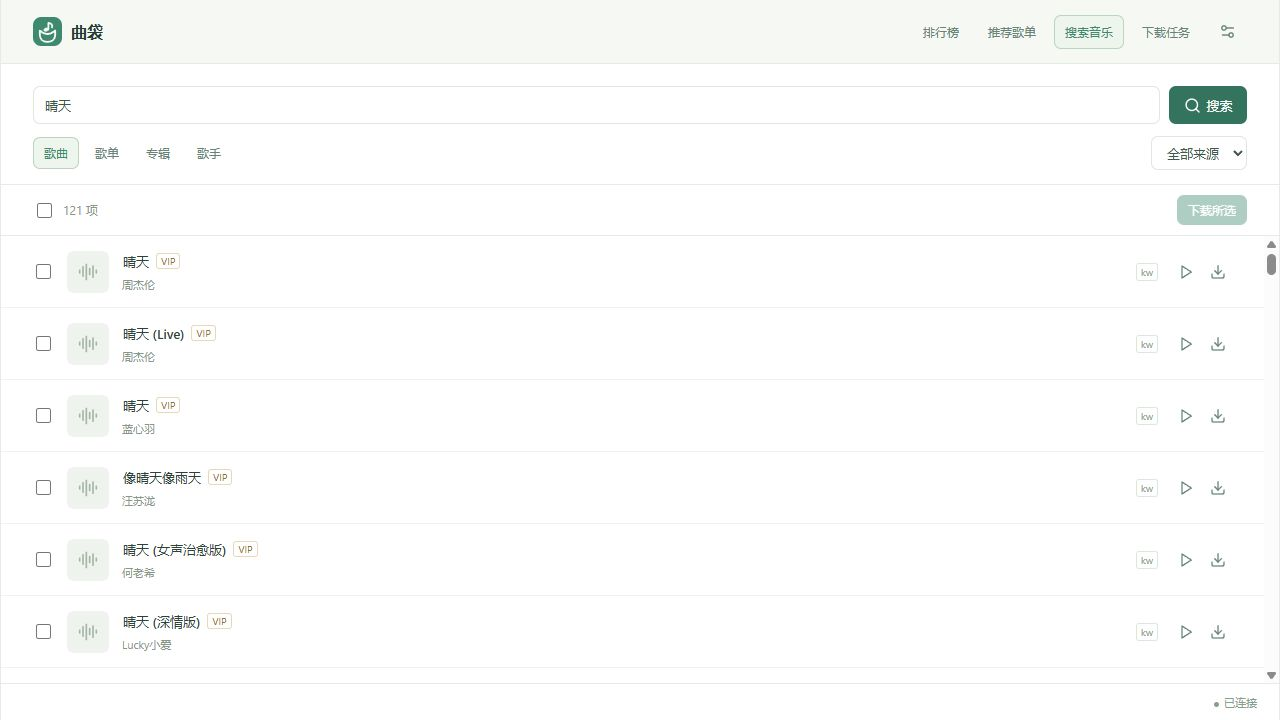
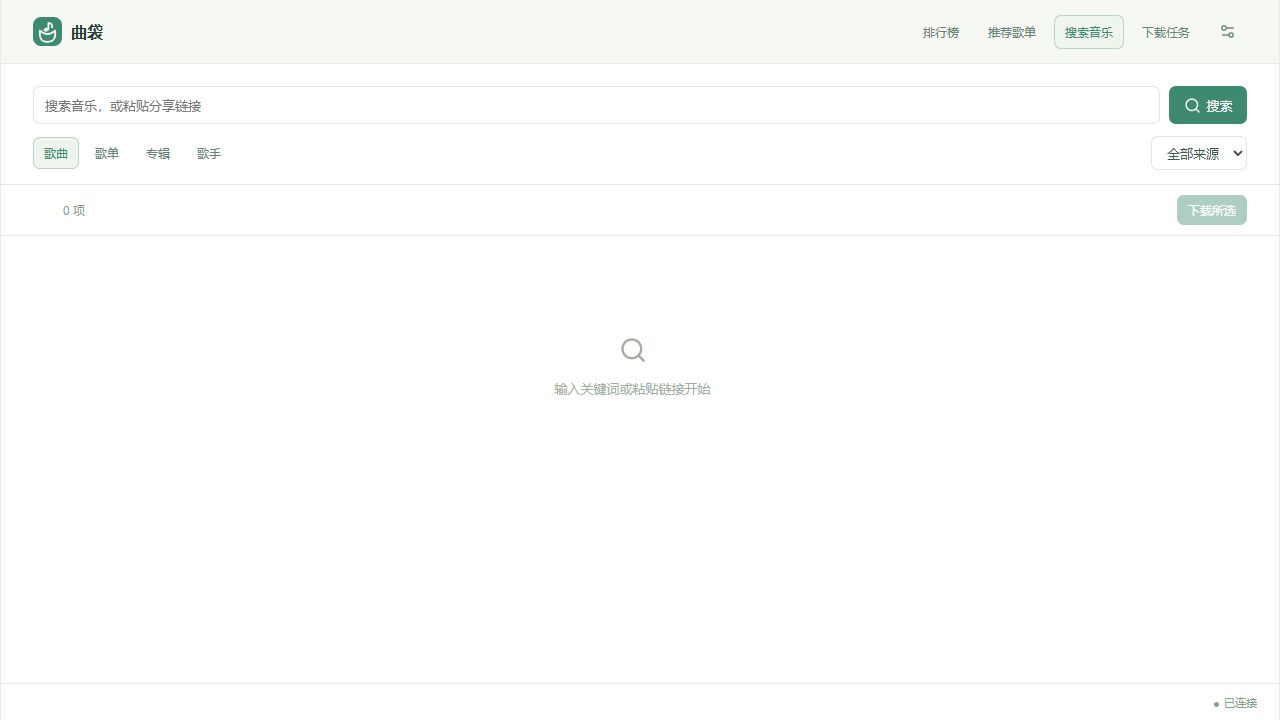
docs: focus README on users and use empty-state screenshots

diff --git a/README.md b/README.md
@@ -4,100 +4,63 @@
 
 # 曲袋
 
-把喜欢的歌曲装进口袋。基于 music-service 的轻量桌面音乐下载工具，支持多平台搜索、批量下载和试听，使用原生 HTML、CSS、JavaScript ES Modules、Vite 与 Neutralinojs 构建。
+把喜欢的歌曲装进口袋。
 
-正式应用位于 `src/`，连接真实 music-service，桌面端自带服务并自动启动。目前验证的桌面平台为 **Windows x64**。
+曲袋是一款轻量桌面音乐下载工具，将多平台搜索、批量下载和试听放进一个紧凑窗口。桌面端自带 music-service，启动应用即可连接本机服务。
 
-## 功能
+## 主要功能
 
-- **搜索与发现**：搜索歌曲、歌单、专辑和歌手，解析分享链接，浏览平台排行榜和推荐歌单。可用来源与能力由服务动态提供。
-- **批量下载**：选择已加载的歌曲分批提交，支持音质、降级策略与授权下载目标选择；断连后确认原请求，避免重复创建任务。
-- **下载管理**：实时同步任务状态，支持多选、右键菜单、取消、失败重试和移除终态记录；支持暂停新任务。
-- **轻量试听**：切换页面继续播放，可随时停止或手动换源，显示实际播放平台。
-- **下载换源**：失败后由后端严格匹配并尝试其他来源，显示原平台、实际平台及已尝试来源。
-- **账号管理**：配置平台 Cookie，管理账号的校验、启停、切换与删除，查看登录状态、会员类型和到期日期。
+- **搜索与发现**：搜索歌曲、歌单、专辑和歌手，粘贴分享链接解析内容，也可浏览排行榜和推荐歌单。
+- **批量下载**：勾选歌曲后统一下载，选择音质与降级策略；下载失败时，由服务严格匹配其他来源并尝试换源。
+- **任务管理**：实时查看下载状态，支持多选、取消、重试和移除已结束的记录，也可暂停新任务的调度。
+- **轻量试听**：播放音源、手动换源、随时停止，切换页面后继续播放，并显示实际播放平台。
+- **平台账号**：配置 Cookie、切换账号，查看登录状态、会员类型和到期日期。可用平台与功能由服务提供。
 
-## 界面截图
+## 获取与运行
 
-以下截图来自正式前端的浏览器开发模式，连接真实 music-service；桌面窗口使用相同界面，并可按窗口宽度调整布局。平台内容随服务实时变化。
+目前已验证 **Windows x64**，系统需有 **WebView2 运行时**。macOS、Linux 及其他架构尚未打包验收。
 
-**搜索音乐**
-
-![曲袋搜索音乐：关键词搜索、多平台来源、付费标记和下载入口](docs/screenshots/search.png)
-
-**浏览排行榜**
-
-![曲袋排行榜：按平台浏览榜单并进入详情](docs/screenshots/charts.png)
-
-## 本地开发
-
-需要 Node.js 24、pnpm 12.14.0，以及 **music-service 0.1.30（schema 8）**。先构建后端 `music_service_server`，确保 `MUSIC_SERVICE_PROVIDERS` 包含所需平台，且服务支持 `--parent-pid`。
+当前仓库尚未发布可直接下载的成品，需要从源码构建。准备 Node.js 24、pnpm 12.14.0 和 music-service 0.1.30（schema 8）后，在项目根目录运行：
 
 ```powershell
 pnpm install
 pnpm desktop:setup
-
-# 替换为自己构建并安装的后端路径。
 $env:MUSIC_SERVICE_BINARY = '<后端安装目录>/bin/music-service.exe'
-pnpm desktop:prepare
-
-pnpm dev
-```
-
-打开 <http://127.0.0.1:5175/>。Vite 自动启动真实服务，开发数据保存在 `.tmp/development-service-<port>/`，与桌面数据分开。普通静态预览无法启动本机服务。
-
-使用桌面窗口运行：
-
-```powershell
 pnpm desktop:dev
 ```
 
-## 常用命令
+后端需先构建并安装，包含所需平台并支持 `--parent-pid`。完整的环境准备、后端要求及单 EXE 打包步骤见[开发与打包说明](docs/development.md)。
 
-| 命令                   | 用途                             |
-| ---------------------- | -------------------------------- |
-| `pnpm dev`             | 启动正式前端与真实开发服务       |
-| `pnpm desktop:setup`   | 安装配置指定的 Neutralino 运行时 |
-| `pnpm desktop:prepare` | 准备并校验后端二进制版本         |
-| `pnpm desktop:dev`     | 构建正式页面并启动桌面窗口       |
-| `pnpm check`           | 检查格式、运行正式应用测试并构建 |
-| `pnpm desktop:build`   | 生成 Windows x64 单文件发行包    |
+## 快速使用
 
-## Windows x64 打包
+1. 打开应用，在“搜索音乐”中输入关键词或粘贴分享链接，也可以从“排行榜”或“推荐歌单”进入详情。
+2. 需要调整音质或配置平台账号时，打开右上角“设置”。
+3. 在歌曲列表点击试听按钮播放；勾选已加载的歌曲，点击“下载所选”批量提交。
+4. 在“下载任务”查看进度、取消任务或重试失败项；点击“下载目录”打开保存位置。
 
-后端先通过 `cmake --install <构建目录> --prefix <安装目录>` 生成可执行文件与第三方许可证，然后运行：
+## 界面预览
 
-```powershell
-pnpm desktop:setup
-$env:MUSIC_SERVICE_BINARY = '<后端安装目录>/bin/music-service.exe'
-$env:MUSIC_SERVICE_LICENSES = '<后端安装目录>/share/music-service/licenses'
-pnpm desktop:build
-```
+截图来自正式前端的浏览器开发模式，连接真实本机服务；仅展示空界面，不含歌曲、歌手、封面或下载记录。桌面窗口使用相同界面，布局随窗口宽度调整。
 
-输出为 `release/qudai-windows-x64/qudai-win_x64.exe` 和 `release/qudai-windows-x64.zip`。EXE 内嵌正式页面、后端服务与第三方许可声明，可以单独复制运行；系统需要 WebView2 运行时。macOS 和 Linux 尚未打包验收。
+**搜索音乐**
 
-打包脚本在独立的 `.desktop-build/` 目录执行。**不要在仓库根目录直接运行 `neu build` 或 `neu update`**，它们会归档并清理 `.tmp/`。
+![曲袋搜索空界面：搜索栏、分类和来源选择](docs/screenshots/search.png)
 
-## 使用边界与数据
+**下载任务**
 
-- 是否能够试听或下载取决于实时音源和账号授权，搜索结果不代表拥有播放或下载权限。付费标记来自服务；解析、权限及下载错误会如实显示。
-- “暂停新任务”调整后台调度，正在执行的任务继续运行；目前不支持单任务暂停。“移除记录”仅隐藏本机列表，保留音乐文件和后台历史。
-- 目录每列表最多缓存 5000 项，批量下载针对已加载的所选歌曲；下载任务列表会取完全部分页，不受该缓存上限限制。
-- 桌面配置、数据库和服务缓存保存在系统应用数据目录的 `shiyin/`；新配置默认下载至系统音乐目录下的 `曲袋/`，已有配置保留原下载路径。
-- 修改下载根目录和输出布局，需要关闭桌面端后编辑 `service.json`。不要同时启动多个使用同一数据目录的窗口。
-- schema 8 不自动迁移旧服务数据库。升级旧开发版本前，请阅读[数据与兼容性说明](docs/development.md#开发和运行)，其中清理旧数据的操作会删除账号、Cookie 和任务记录。
+![曲袋下载任务空界面：筛选、队列控制和下载目录入口](docs/screenshots/downloads.png)
 
-## 项目结构
+## 使用须知
 
-```text
-src/          正式应用
-public/       正式静态资源与品牌图标
-scripts/      本机服务、桌面构建与品牌资源脚本
-tests/        正式应用测试
-docs/         开发说明与真实界面截图
-prototype/    独立设计原型
-```
+- 试听和下载取决于音源可用性、版权及账号授权；搜索结果与付费标记不保证可播放或下载。请仅下载你有权获取和使用的内容。
+- 批量下载针对当前已加载的所选歌曲。“暂停新任务”不影响正在执行的任务，目前不支持单任务暂停；“移除记录”只隐藏本机列表中的记录，保留音乐文件和后台历史。
+- 新配置默认保存至系统音乐目录下的 `曲袋/`。配置与服务数据位于系统应用数据目录的 `shiyin/`，已有配置保留原下载路径。更改下载根目录需关闭应用后编辑 `service.json`。
+- 不要同时打开多个使用同一数据目录的窗口。升级旧开发版本前，请先阅读[数据与兼容性说明](docs/development.md#开发和运行)；旧服务数据库不会自动迁移。
 
-`prototype/` 仅供设计参考，通过 `pnpm prototype:dev`、`pnpm prototype:build` 和 `pnpm prototype:test` 独立运行，不从正式入口导入，也不进入发行包。
+## 文档与反馈
 
-更多细节见[开发、打包与运行细节](docs/development.md)和[原型说明](docs/prototype.md)。Logo 的唯一矢量源为 `public/favicon.svg`，构建时自动生成窗口与 EXE 所需的 PNG 图标。
+- [开发、运行与打包](docs/development.md)
+- [更新日志](CHANGELOG.md)
+- [问题反馈与功能建议](https://github.com/ddmoyu/music-dl/issues)
+
+正式应用采用原生 HTML、CSS、JavaScript ES Modules、Vite 与 Neutralinojs。`prototype/` 仅供设计参考，独立运行，不进入正式发行包；详见[原型说明](docs/prototype.md)。

diff --git a/docs/development.md b/docs/development.md
@@ -2,6 +2,19 @@
 
 面向开发者的完整说明。项目概览和界面截图见 [README](../README.md)。
 
+## 技术栈与目录
+
+正式前端使用原生 HTML、CSS、JavaScript ES Modules、Vite 与 Neutralinojs，不引入 UI 框架。品牌图标的唯一矢量源为 `public/favicon.svg`，构建时生成窗口与 EXE 使用的 PNG。
+
+```text
+src/          正式应用
+public/       正式静态资源与品牌图标
+scripts/      本机服务、桌面构建与品牌资源脚本
+tests/        正式应用测试
+docs/         开发说明与真实界面截图
+prototype/    独立设计原型
+```
+
 ## 开发和运行
 
 使用 Node.js 24、pnpm 12.14.0。当前前端对应 music-service 0.1.30（schema 8）。先构建后端 `music_service_server`，确保 `MUSIC_SERVICE_PROVIDERS` 包含需要发布的平台；桌面生命周期要求后端支持 `--parent-pid`。

diff --git a/CHANGELOG.md b/CHANGELOG.md
@@ -2,6 +2,7 @@
 
 ## Unreleased
 
+- README 补充获取、运行与快速使用说明，界面截图仅展示不含歌曲信息的空界面。
 - 接入 music-service 0.1.30（schema 8）：试听显式换源，保留原歌曲与累计已尝试平台，显示实际播放来源并处理加载超时、源耗尽和取消。
 - 下载任务展示等待换源、原平台与实际平台，阶段变化后刷新完整快照。
 
